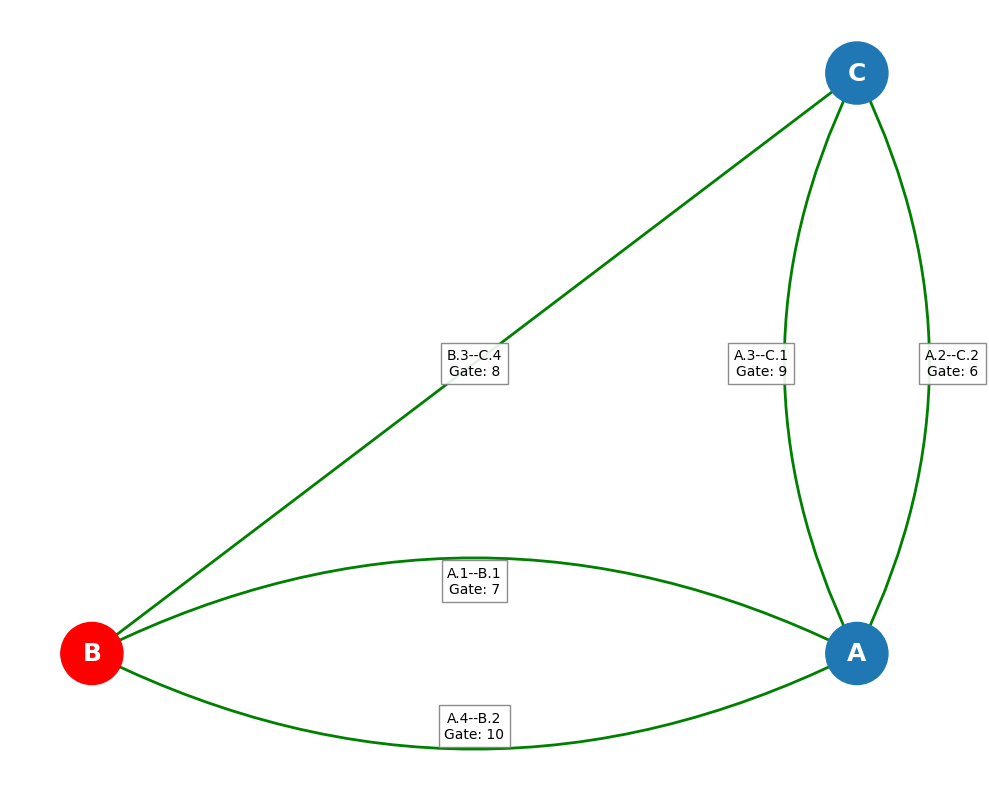
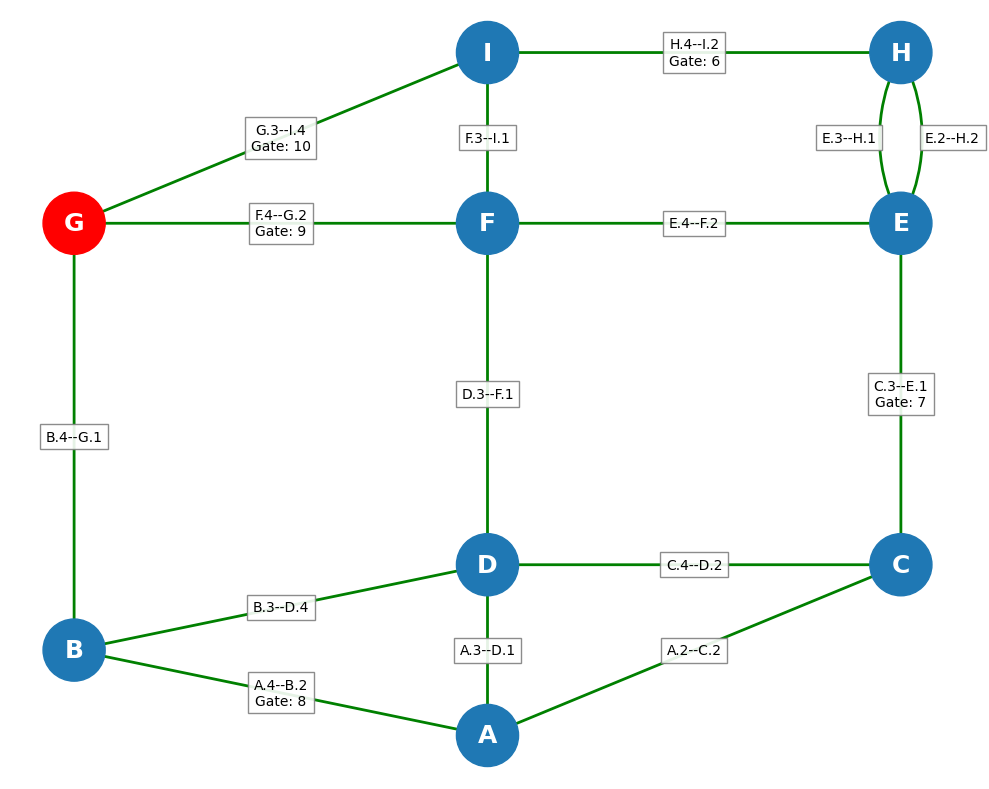
zwischenstand, schneller nav

diff --git a/src/packages/map_and_nav/src/detect_and_control_lane_node.py b/src/packages/map_and_nav/src/detect_and_control_lane_node.py
@@ -156,12 +156,17 @@ class DuckAvoidanceNode:
             return
 
         zones_3d = [
-            [(0.1, -0.06), (0.14, -0.06), (0.14, 0.06), (0.1, 0.06)],   # Zone 0
-            [(0.14, -0.08), (0.2, -0.073), (0.2, 0.073), (0.14, 0.08)], # Zone 1
-            [(0.2, -0.073), (0.3, -0.07), (0.3, 0.07), (0.2, 0.073)],    # Zone 2
+            [(0.1, -0.05), (0.14, -0.05), (0.14, 0.05), (0.1, 0.05)],   # Zone 0
+            [(0.14, -0.07), (0.2, -0.063), (0.2, 0.063), (0.14, 0.07)], # Zone 1
+            [(0.2, -0.075), (0.3, -0.07), (0.3, 0.07), (0.2, 0.075)],    # Zone 2
             [(0.33, -0.11), (0.42, -0.12), (0.42, 0.12), (0.33, 0.11)]    # Zone 3
         ]
-
+        #zones_3d = [
+        #            [(0.1, -0.06), (0.14, -0.06), (0.14, 0.06), (0.1, 0.06)],   # Zone 0
+        #            [(0.14, -0.08), (0.2, -0.073), (0.2, 0.073), (0.14, 0.08)], # Zone 1
+        #            [(0.2, -0.073), (0.3, -0.07), (0.3, 0.07), (0.2, 0.073)],    # Zone 2
+        #            [(0.33, -0.11), (0.42, -0.12), (0.42, 0.12), (0.33, 0.11)]    # Zone 3
+        #        ]
         for z in zones_3d:
             pts_2d = []
             for (X, Y) in z:
@@ -326,7 +331,7 @@ class DuckAvoidanceNode:
                 self.pub_stop_line.publish(Bool(True))
 
             elif self.state == "STOPPED_RED":
-                if (current_time - self.stop_timer_start) >= 2.0:
+                if (current_time - self.stop_timer_start) >= 0.3:
                     rospy.loginfo("2s Stopp beendet. Überquere Linie (2s Cooldown).")
                     self.state = "COOLDOWN"
                     self.cooldown_timer_start = current_time
@@ -363,36 +368,36 @@ class DuckAvoidanceNode:
                 cmd.v = 1.0 * 0.08 * self.wiggle_direction
 
                 # Invertierungsschutz
-                dt = current_time - self.last_inversion_time
-                if dt > 1.0: 
-                    if self.escape_direction == 1.0 and z2["yellow"]:
-                        self.escape_direction = -1.0
-                        self.last_inversion_time = current_time
-                    elif self.escape_direction == -1.0 and z2["white"]:
-                        self.escape_direction = 1.0
-                        self.last_inversion_time = current_time
+                #dt = current_time - self.last_inversion_time
+                #if dt > 1.0: 
+                #    if self.escape_direction == 1.0 and z1["yellow"]:
+                #        self.escape_direction = -1.0
+                #        self.last_inversion_time = current_time
+                #    elif self.escape_direction == -1.0 and z1["white"]:
+                #        self.escape_direction = 1.0
+                #        self.last_inversion_time = current_time
 
-                cmd.omega = 1.5 * self.escape_direction
+                cmd.omega = 1.8 * self.escape_direction
 
             elif self.state in ["DRIVING", "COOLDOWN"]:
                 # 1. Stufe: Harte Spurkorrektur in Zone 1
                 if z1["white"] or z1["yellow"]:
-                    cmd.v = 0.15
-                    cmd.omega = 2.7 if z1["white"] else -2.7
+                    cmd.v = 0.2 #0.15
+                    cmd.omega = 2.5 if z1["white"] else -2.5 #2.7
                 
                 # 2. Stufe: Weiche Spurkorrektur in Zone 2
                 elif z2["white"] or z2["yellow"]:
-                    cmd.v = 0.15 
-                    cmd.omega = 1.3 if z2["white"] else -1.3 
+                    cmd.v = 0.2 #0.15
+                    cmd.omega = 1.0 if z2["white"] else -1.0 #1.3
                     
                 # 3. Stufe: Gelb und weiß in Zone 3
                 elif z3["white"] or z3["yellow"]:
-                    cmd.v = 0.18
+                    cmd.v = 0.22 #0.18
                     cmd.omega = 0.6 if z3["white"] else -0.6
                 
                 # 4. Stufe ALLES FREI -> geradeaus fahren
                 else:
-                    cmd.v = 0.18 
+                    cmd.v = 0.25 
                     cmd.omega = 0.0
 
             # --- COMMAND PUBLISH ---

diff --git a/src/packages/map_and_nav/src/topological_graph.py b/src/packages/map_and_nav/src/topological_graph.py
@@ -122,7 +122,7 @@ class TopologicalGraph:
                 result[int(gate_id)] = key
         return result
 
-    def dijkstra(self, start_node, start_incoming_port=None):
+    def dijkstra(self, start_node, start_incoming_port=None, allowed_gates=None):
         start_node = str(start_node)
         if start_incoming_port is not None:
             start_incoming_port = int(start_incoming_port)
@@ -146,6 +146,13 @@ class TopologicalGraph:
                     continue
                     
                 edge_key = data["edge_key"]
+                
+                if allowed_gates is not None:
+                    gates_on_edge = self.edges[edge_key].get("gates", [])
+                    # If edge has gates, all of them must be in allowed_gates
+                    if gates_on_edge and any(int(g) not in allowed_gates for g in gates_on_edge):
+                        continue
+                        
                 next_node = data["to_node"]
                 next_inc_port = int(data["to_port"])
                 
@@ -159,7 +166,7 @@ class TopologicalGraph:
                     
         return dist, previous
 
-    def path_to_node(self, start_node, goal_node, start_incoming_port=None):
+    def path_to_node(self, start_node, goal_node, start_incoming_port=None, allowed_gates=None):
         start_node = str(start_node)
         goal_node = str(goal_node)
         
@@ -167,7 +174,7 @@ class TopologicalGraph:
             start_incoming_port = int(start_incoming_port)
         start_state = (start_node, start_incoming_port)
         
-        dist, previous = self.dijkstra(start_node, start_incoming_port)
+        dist, previous = self.dijkstra(start_node, start_incoming_port, allowed_gates)
         
         # Finde den besten Zielzustand (beliebiger incoming_port)
         best_goal_state = None
@@ -195,7 +202,7 @@ class TopologicalGraph:
         steps.reverse()
         return best_cost, steps
 
-    def route_to_gate(self, start_node, gate_id, start_incoming_port=None):
+    def route_to_gate(self, start_node, gate_id, start_incoming_port=None, allowed_gates=None):
         gate_edge = self.gates_to_edges().get(int(gate_id))
         if gate_edge is None:
             raise ValueError(f"Gate {gate_id} is not mapped to any edge")
@@ -208,7 +215,7 @@ class TopologicalGraph:
             (edge["node_a"], edge["port_a"], edge["node_b"]),
             (edge["node_b"], edge["port_b"], edge["node_a"]),
         ):
-            node_path = self.path_to_node(start_node, approach_node, start_incoming_port)
+            node_path = self.path_to_node(start_node, approach_node, start_incoming_port, allowed_gates)
             if node_path is None:
                 continue
             cost, steps = node_path

diff --git a/src/packages/map_and_nav/src/mapping_topological_node.py b/src/packages/map_and_nav/src/mapping_topological_node.py
@@ -43,7 +43,6 @@ class TopologicalMappingNode:
         self.edge_drive_started = False
         self.active = True
         self.visited_edges = set()
-        self.visit_counts = {}
         self.pending_exit_ports = []
         self.best_gate_candidate = {"id": None, "area": 0}
         self.mapping_exported = False
@@ -174,7 +173,6 @@ class TopologicalMappingNode:
         if elapsed and elapsed > 0.1:
             self.graph.set_travel_time(self.current_edge, elapsed)
         self.visited_edges.add(self.current_edge)
-        self.visit_counts[self.current_edge] = self.visit_counts.get(self.current_edge, 0) + 1
         self.publish_status({"status": "stopline_reached"})
 
         edge = self.graph.edges[self.current_edge]
@@ -240,13 +238,6 @@ class TopologicalMappingNode:
             "total_edges": len(self.graph.edges),
         })
 
-    def _needs_visit(self, edge_key):
-        if edge_key not in self.visited_edges:
-            return True
-        # Wenn kein Gate gefunden wurde, bis zu 3x versuchen
-        if edge_key not in self._mapped_edges_dict().values() and self.visit_counts.get(edge_key, 0) < 3:
-            return True
-        return False
 
     def next_exit_port(self):
         if self.pending_exit_ports:
@@ -256,7 +247,7 @@ class TopologicalMappingNode:
             if port == self.incoming_port:
                 continue # FORBID U-TURN
             candidate = self.graph.edge_from_port(self.current_node, port)
-            if self._needs_visit(candidate):
+            if candidate not in self.visited_edges:
                 return port
 
         # Sind lokal alle Kanten "fertig", fuehrt der kuerzeste bekannte Weg zum
@@ -265,12 +256,13 @@ class TopologicalMappingNode:
         best_cost = None
         for node in self.graph.adjacency.keys():
             has_unvisited = any(
-                self._needs_visit(self.graph.edge_from_port(node, port))
+                self.graph.edge_from_port(node, port) not in self.visited_edges
                 for port in self.graph.ports(node)
             )
             if not has_unvisited or node == self.current_node:
                 continue
-            node_path = self.graph.path_to_node(self.current_node, node)
+            # U-TURN FIX APPLIED HERE:
+            node_path = self.graph.path_to_node(self.current_node, node, self.incoming_port)
             if node_path is None:
                 continue
             cost, steps = node_path

diff --git a/src/packages/map_and_nav/src/debug_navigation_node.py b/src/packages/map_and_nav/src/debug_navigation_node.py
@@ -49,9 +49,15 @@ class DebugNavigationNode:
                 }
                 
         self.pos = {
-            "B": (-4, 0),
-            "A": (0, 0),
-            "C": (0, 4),
+                    "C": (0, 0),
+                    "A": (-4, -4),    # vorher (4, -4)
+                    "B": (-8, -2),    # vorher (8, -2)
+                    "D": (-4, 0),     # vorher (4, 0)
+                    "E": (0, 8),
+                    "F": (-4, 8),     # vorher (4, 8)
+                    "G": (-8, 8),     # vorher (8, 8)
+                    "H": (0, 12),
+                    "I": (-4, 12)     # vorher (4, 12)
         }
         
         self.current_node = None

diff --git a/src/packages/map_and_nav/src/debug_mapping_node.py b/src/packages/map_and_nav/src/debug_mapping_node.py
@@ -38,9 +38,15 @@ class DebugMappingNode:
                 }
                 
         self.pos = {
-            "B": (0, 0),
-            "A": (4, 0),
-            "C": (4, 4),
+            "C": (0, 0),
+            "A": (-4, -4),    # vorher (4, -4)
+            "B": (-8, -2),    # vorher (8, -2)
+            "D": (-4, 0),     # vorher (4, 0)
+            "E": (0, 8),
+            "F": (-4, 8),     # vorher (4, 8)
+            "G": (-8, 8),     # vorher (8, 8)
+            "H": (0, 12),
+            "I": (-4, 12)     # vorher (4, 12)
         }
         
         self.current_node = None

diff --git a/src/packages/map_and_nav/src/navigator_node.py b/src/packages/map_and_nav/src/navigator_node.py
@@ -341,6 +341,7 @@ class NavigatorNode:
                     planning_node,
                     gate_id,
                     planning_incoming_port,
+                    allowed_gates=[gate_id]
                 )
             )
 
